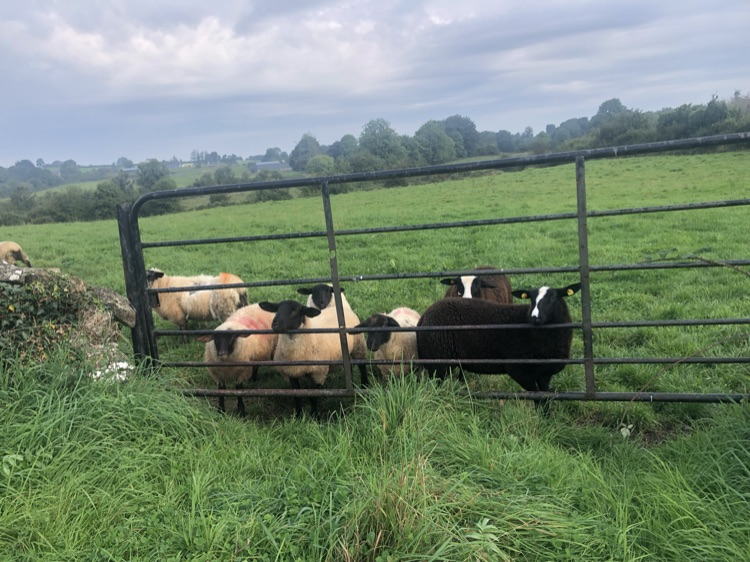
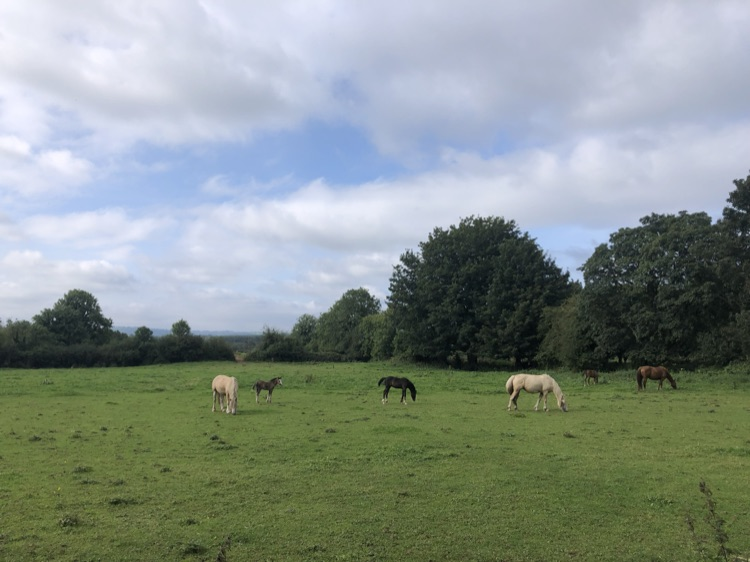
Regroup deck, video cards, cache-busting, UX tweaks
- Regroup cards by place; photo swaps (3→Galway, etc.)
- Add two hover-to-play video cards: 10 Achill Island, 2 Galway
  (HEVC .mov transcoded to web H.264 mp4 via AVFoundation)
- Content-hash cache-busting on all media URLs (no more stale images)
- Remove hover-to-front; "flip all down" -> "flip all up"

diff --git a/index.html b/index.html
@@ -49,7 +49,6 @@
     transform: rotate(var(--rot, 0deg));
     animation: fade .5s ease both;
   }
-  .slot:hover { z-index: 999 !important; }
 
   .card {
     position: absolute; inset: 0;
@@ -102,7 +101,7 @@
     border-radius: 5px; overflow: hidden;
     background: #e8e8e8;
   }
-  .photo img {
+  .photo img, .photo video {
     width: 100%; height: 100%; object-fit: cover; display: block;
     /* gently aged: a little muted + warm, not punchy */
     filter: contrast(1.05) saturate(1.02) brightness(1.02) sepia(.12);
@@ -153,7 +152,7 @@
   <div class="controls">
     <button id="ordered">Ordered</button>
     <button id="reshuffle">reshuffle</button>
-    <button id="flipdown">flip all down</button>
+    <button id="flipdown">flip all up</button>
   </div>
 
   <script>
@@ -190,15 +189,17 @@
           const res = await fetch(enc(DIR));
           const doc = new DOMParser().parseFromString(await res.text(), 'text/html');
           files = [...doc.querySelectorAll('a')].map(a => a.getAttribute('href'))
-            .filter(h => h && /\.(jpe?g|png|webp|avif)$/i.test(h) && !h.endsWith('/'))
+            .filter(h => h && /\.(jpe?g|png|webp|avif|mp4|webm|mov)$/i.test(h) && !h.endsWith('/'))
             .map(h => decodeURIComponent(h.split('/').pop()));
           if (!files.length) throw new Error('empty');
         } catch (e2) { files = FALLBACK.slice(); }
       }
-      const items = files.map(f => {
+      const items = files.map(o => {
+        const f = o.f || o;                 // manifest gives {f, v}; dir listing gives a string
+        const v = o.v || '';
         const name = f.replace(/\.[^.]+$/, '');
         const m = name.match(/^\s*(\d+)\s+(.*)$/);
-        return { order: m ? +m[1] : 9999, caption: m ? m[2] : name, file: f };
+        return { order: m ? +m[1] : 9999, caption: m ? m[2] : name, file: f, v };
       }).sort((a, b) => a.order - b.order || a.caption.localeCompare(b.caption));
       // rank comes from the filename's leading number (1->A, 10->10); fall back to position
       items.forEach((it, i) => it.rank = it.order < 9999 ? rankFor(it.order - 1) : rankFor(i));
@@ -206,10 +207,17 @@
     }
 
     const pip = rank => `<span class="rank">${rank}</span>${CLUB}`;
+    const isVideo = f => /\.(mp4|webm|mov)$/i.test(f);
+    const mediaHTML = c => {
+      const src = enc(DIR + c.file) + (c.v ? '?v=' + c.v : '');
+      return isVideo(c.file)
+        ? `<video class="media" muted loop playsinline preload="metadata" src="${src}#t=0.1"></video>`
+        : `<img class="media" src="${src}" alt="${c.caption}">`;
+    };
     const cardFaceHTML = c => `<div class="ace">
         <div class="pip tl">${pip(c.rank)}</div>
         <div class="pip br">${pip(c.rank)}</div>
-        <div class="photo"><img src="${enc(DIR + c.file)}" alt="${c.caption}"></div>
+        <div class="photo">${mediaHTML(c)}</div>
         <div class="caption">${c.caption}</div>
       </div>`;
 
@@ -328,6 +336,12 @@
           card.classList.toggle('flipped');
           slot.style.zIndex = ++topZ;
         });
+        // video cards play on hover, reset on leave
+        const vid = slot.querySelector('video');
+        if (vid) {
+          slot.addEventListener('mouseenter', () => { vid.play().catch(() => {}); });
+          slot.addEventListener('mouseleave', () => { vid.pause(); vid.currentTime = 0.1; });
+        }
         stage.appendChild(slot);
         return slot;
       });
@@ -343,10 +357,10 @@
     document.getElementById('ordered').addEventListener('click', () => ordered(SLOTS));
     document.getElementById('reshuffle').addEventListener('click', () => shuffle(SLOTS));
     document.getElementById('flipdown').addEventListener('click', () =>
-      SLOTS.forEach(s => s.querySelector('.card').classList.remove('flipped')));
+      SLOTS.forEach(s => s.querySelector('.card').classList.add('flipped')));
 
     loadDeck().then(deck => {
-      [BACK, ...deck.map(d => DIR + d.file)].forEach(p => { const i = new Image(); i.src = enc(p); });
+      [enc(BACK), ...deck.map(d => enc(DIR + d.file) + (d.v ? '?v=' + d.v : ''))].forEach(p => { const i = new Image(); i.src = p; });
       SLOTS = build(deck);
     });
   </script>